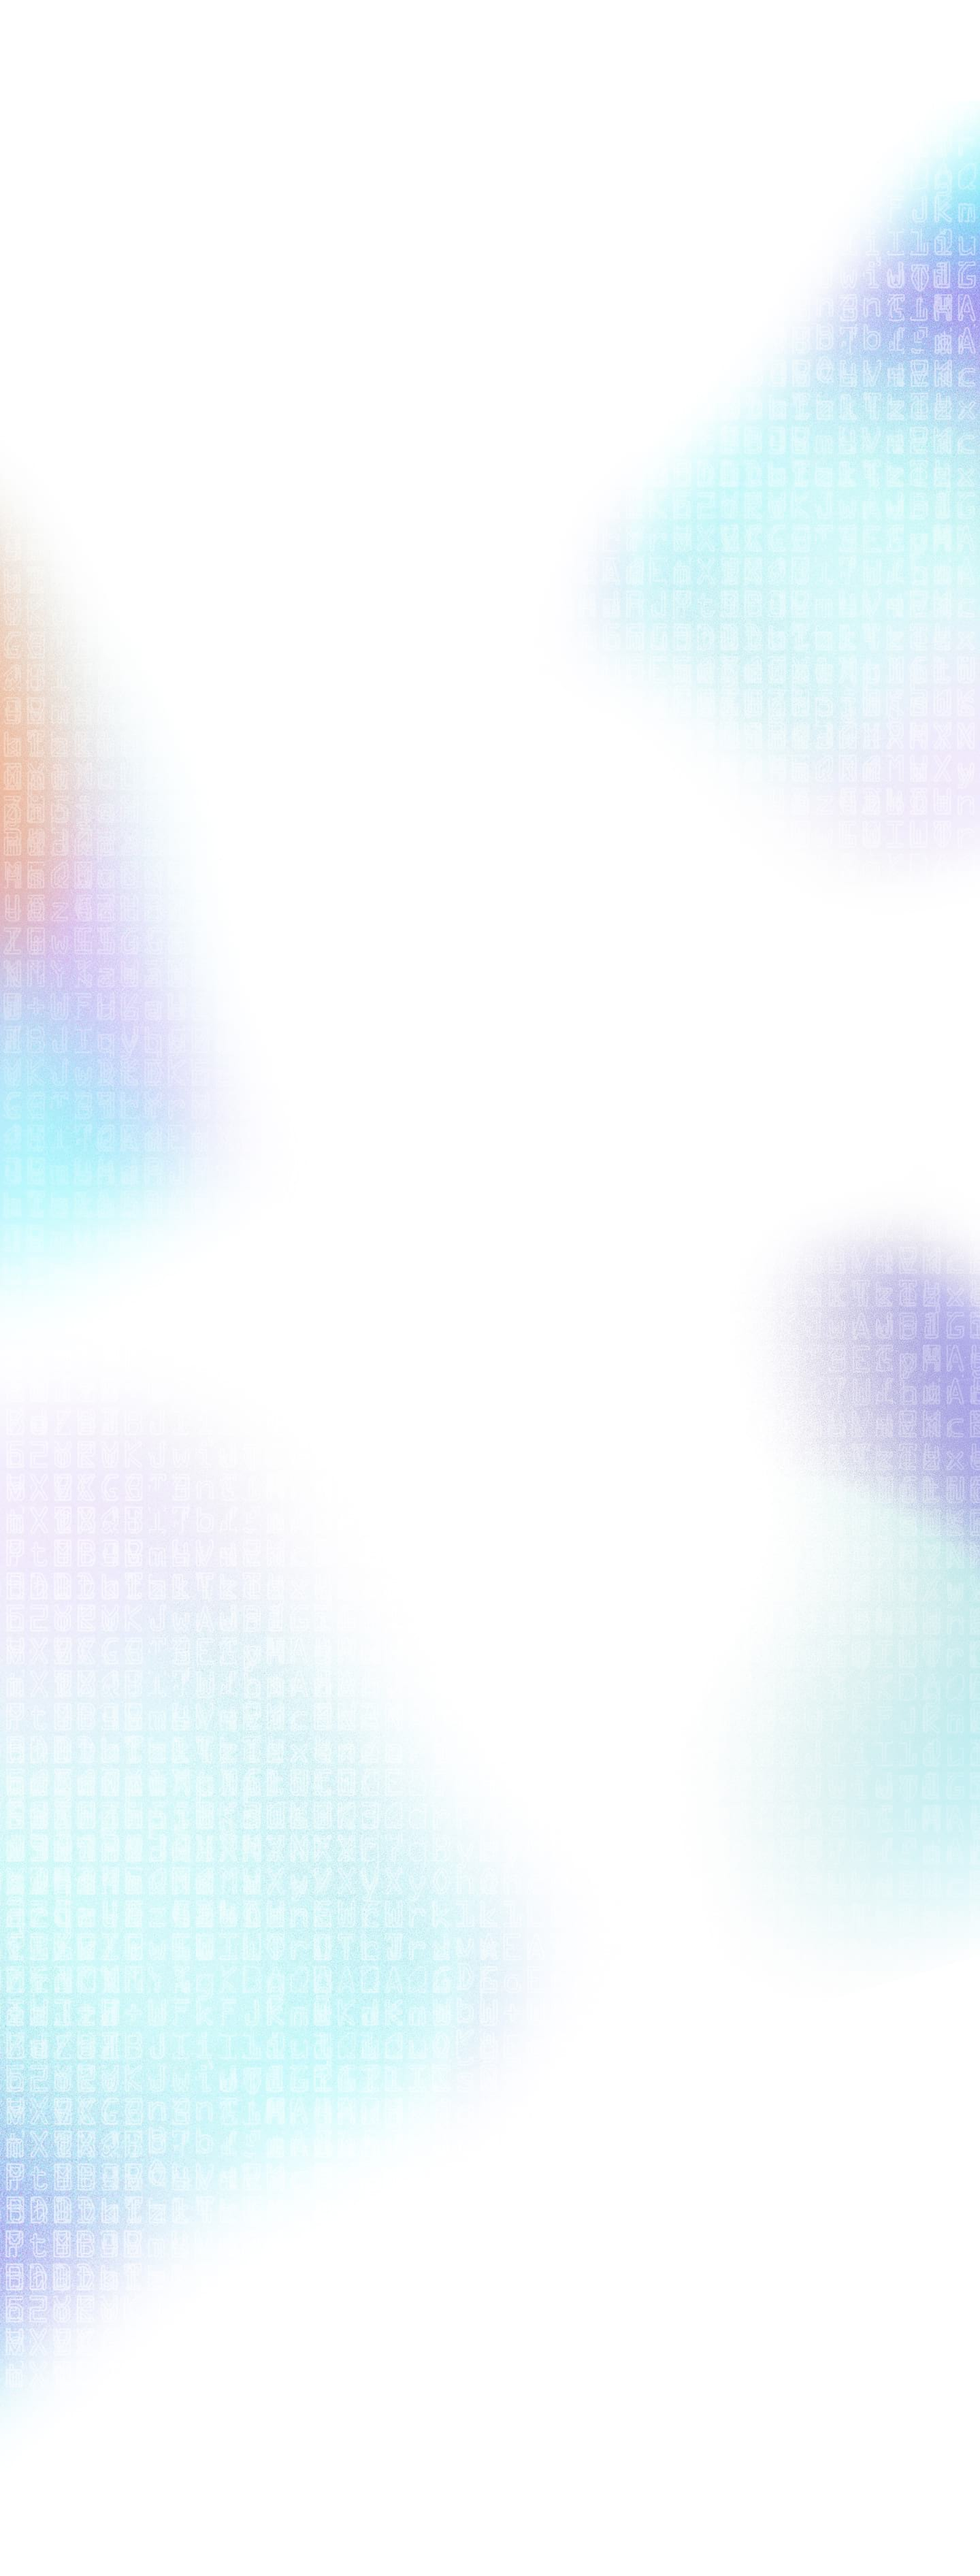
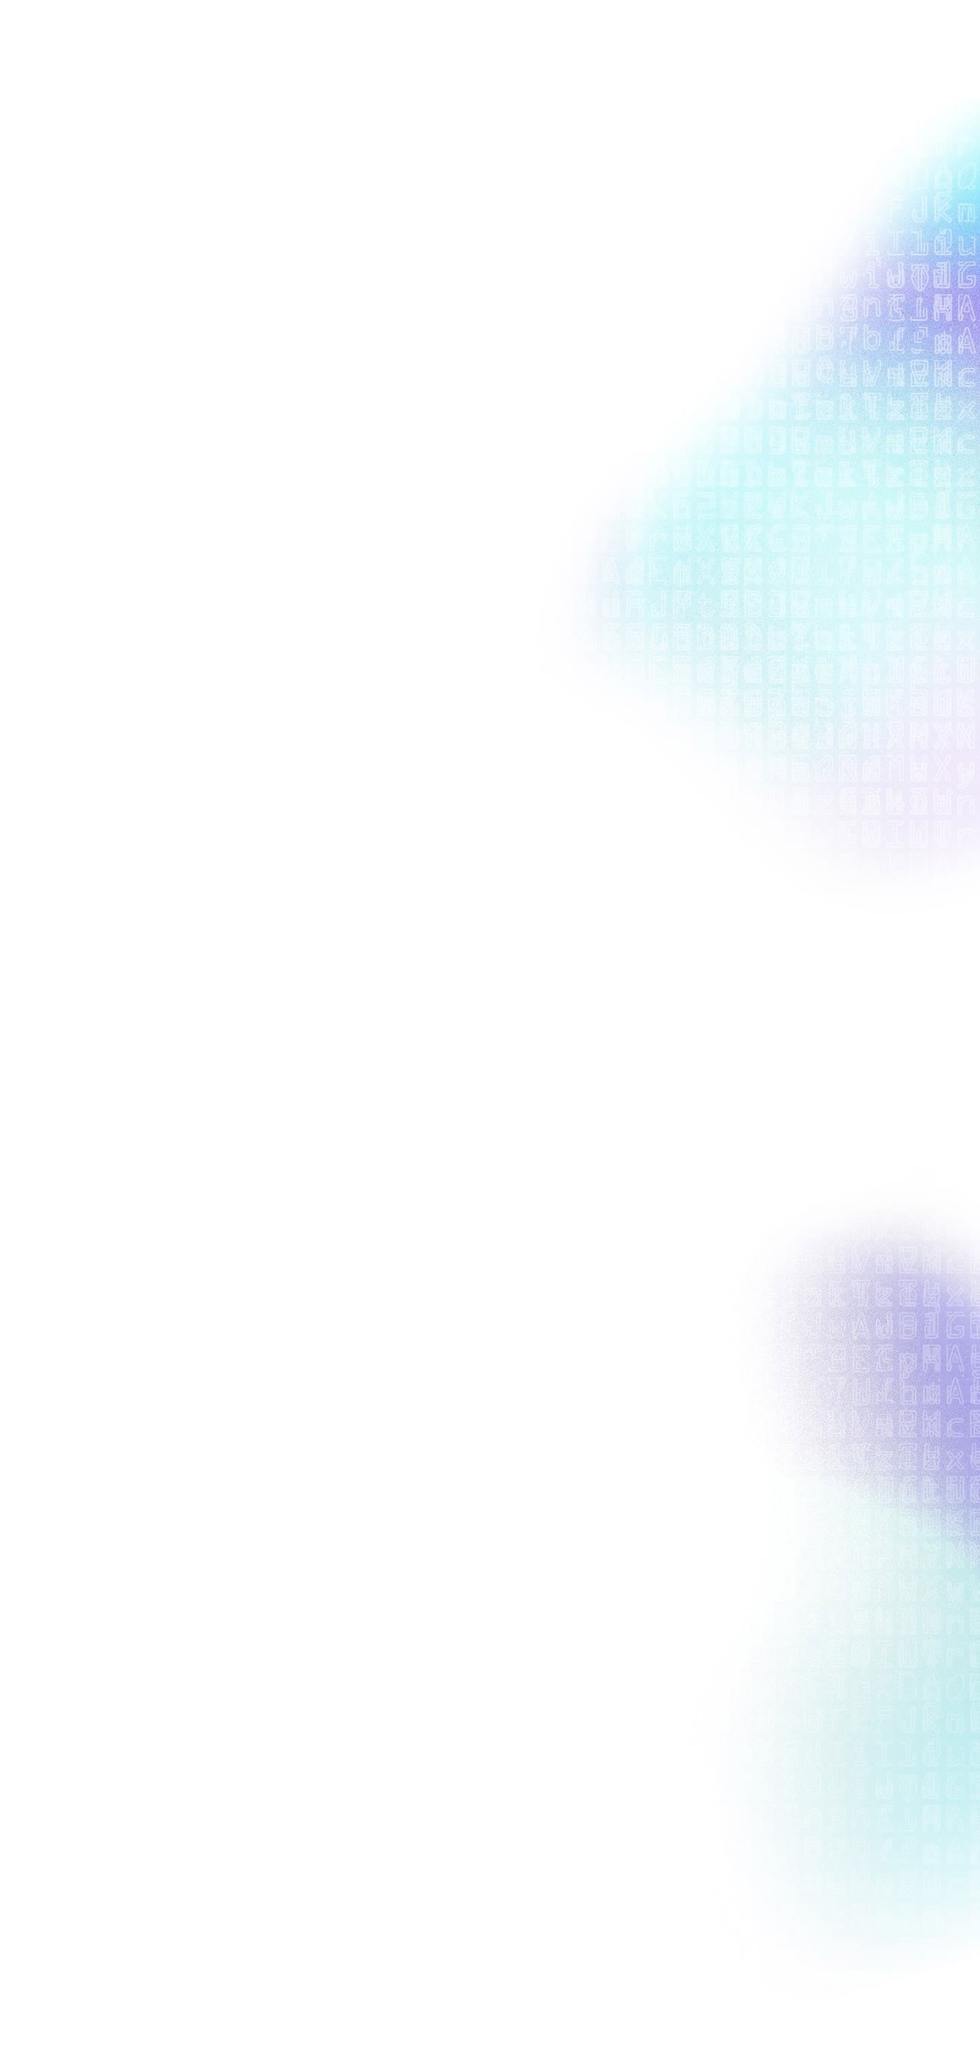
Docs: Style updates (#23)

diff --git a/src/scss/base/_reset_docusaurus.scss b/src/scss/base/_reset_docusaurus.scss
@@ -10,7 +10,19 @@ We must use `!important` at times to override some default styles.
 
 #__docusaurus {
   background-image: url("@site/static/img/mina_background.jpg");
-  background-size: cover;
+  background-size: 100%;
+}
+
+.container {
+  padding-bottom: 4rem !important;
+
+  @media screen and (min-width: variables.$screen-md) {
+    padding-bottom: 5rem !important;
+  }
+}
+
+.theme-doc-sidebar-container {
+  border-right: none !important;
 }
 
 .theme-doc-markdown {
@@ -31,6 +43,7 @@ We must use `!important` at times to override some default styles.
 }
 
 .menu {
+  padding-left: var(--ifm-menu-link-padding-horizontal);
   @media screen and (min-width: variables.$screen-md) {
     margin-left: 1rem;
     margin-bottom: 1rem;
@@ -47,7 +60,7 @@ We must use `!important` at times to override some default styles.
 
   & > .theme-doc-sidebar-item-category-level-1,
   .theme-doc-sidebar-item-link-level-1 {
-    margin-left: 1.5rem;
+    margin-left: 2rem;
     border-left: 1px solid rgba(45, 45, 45, 0.25);
     & > div {
       border-radius: 0;
@@ -70,12 +83,17 @@ We must use `!important` at times to override some default styles.
     content: counter(orderedList, decimal-leading-zero) !important;
 
     position: absolute;
-    transform: translateX(-80%) translateY(90%);
+    transform: translateX(-80%) translateY(91%);
   }
 }
 
 .menu__link {
   line-height: 2rem;
+
+  &:hover,
+  & > a {
+    transition: none !important;
+  }
 }
 
 .menu__list-item:not(:first-child) {
@@ -84,6 +102,10 @@ We must use `!important` at times to override some default styles.
 
 .navbar {
   height: 100%;
+}
+
+.navbar__items {
+  position: relative;
 }
 
 .navbar__logo {
@@ -100,13 +122,19 @@ We must use `!important` at times to override some default styles.
   margin-right: 0rem;
 }
 
+.navbar__item {
+  & > .navbar-docs-copy {
+    padding: 0;
+  }
+}
+
 .navbar__items--right {
   & > div,
   & > a {
     @media screen and (min-width: variables.$screen-lg) {
       display: flex;
       align-items: center;
-      margin-left: 2.5rem;
+      margin-left: 1rem;
     }
   }
 }
@@ -115,15 +143,43 @@ We must use `!important` at times to override some default styles.
   border-radius: 2px !important;
   border: 1px solid variables.$mina-gray !important;
   border-width: 0.01em;
-  height: 2.75rem !important;
+  height: 3.3rem !important;
+
+  position: static;
 
   & > * > .DocSearch-Search-Icon,
   .DocSearch-Button-Container {
     color: variables.$mina-gray !important;
+    font-weight: normal !important;
+  }
+
+  &:hover {
+    svg {
+      color: variables.$mina-gray-dark !important;
+    }
+  }
+
+  @media screen and (min-width: variables.$screen-sm) {
+    width: 15rem;
   }
 
   @media screen and (min-width: variables.$screen-md) {
-    width: 15rem;
+    position: absolute !important;
+    top: 0%;
+    left: 28.5%;
+    width: 30rem;
+  }
+
+  @media screen and (min-width: variables.$screen-lg) {
+    width: 40rem;
+  }
+
+  @media screen and (min-width: variables.$screen-xl) {
+    width: 40rem;
+  }
+
+  @media screen and (min-width: variables.$screen-xl2) {
+    width: 55rem;
   }
 
   --docsearch-searchbox-background: variables.$mina-white;
@@ -135,7 +191,7 @@ We must use `!important` at times to override some default styles.
 }
 
 .breadcrumbs {
-  @media screen and (min-width: variables.$screen-lg) {
+  @media screen and (min-width: variables.$screen-md) {
     display: none;
   }
 }
@@ -153,11 +209,24 @@ We must use `!important` at times to override some default styles.
 }
 
 .pagination-nav__link {
-  border-color: variables.$mina-orange;
+  border-color: variables.$mina-gray;
+  &:hover {
+    border-color: variables.$mina-orange;
+  }
   & > .pagination-nav__sublabel {
     color: #a6a6a6;
   }
   & > .pagination-nav__label {
     color: variables.$mina-orange;
   }
+}
+
+.navbar-sidebar__brand {
+  & > * > .navbar__logo {
+    margin-left: -4px;
+  }
+}
+
+.navbar-sidebar__back {
+  margin-left: -1rem;
 }

diff --git a/docusaurus.config.js b/docusaurus.config.js
@@ -15,7 +15,7 @@ const katex = require("rehype-katex");
     baseUrl: "/",
     onBrokenLinks: "throw",
     onBrokenMarkdownLinks: "warn",
-    favicon: "img/favicon.png",
+    favicon: "img/favicon.ico",
     organizationName: "o1-labs",
     projectName: "docs2",
 
@@ -63,28 +63,36 @@ const katex = require("rehype-katex");
           logo: {
             alt: "Mina Logo",
             src: "svg/common/mina_logo.svg",
-            href: "https://minaprotocol.com",
+            href: "/",
           },
           items: [
             {
               type: "html",
               position: "left",
-              value: `<a class="navbar-docs-copy" href="/"><h3 style="margin:0">Docs</h3></a>`,
+              className: "navbar-docs-copy",
+              value: `<a href="/"><h3 style="margin:0">Docs</h3></a>`,
             },
+
             {
-              type: "localeDropdown",
-              position: "right",
+              type: "search",
+              position: "left",
             },
             {
               type: "html",
               position: "right",
-              value: `<a href="https://github.com/MinaProtocol/mina"><img style="margin:0;padding-top:5px;width:28px;height:auto" src="/svg/socials/github_24x24.svg"/></a>`,
+              value: `<a href="https://github.com/MinaProtocol/mina"><img class="navbar-github-icon" src="/svg/socials/github_24x24.svg"/></a>`,
             },
           ],
         },
 
+        docs: {
+          sidebar: {
+            autoCollapseCategories: true,
+          },
+        },
+
         prism: {
-          theme: lightCodeTheme,
+          theme: darkCodeTheme,
           darkTheme: darkCodeTheme,
         },
 
@@ -98,6 +106,7 @@ const katex = require("rehype-katex");
           appId: process.env.ALGOLIA_APP_ID,
           apiKey: process.env.ALGOLIA_SEARCH_API_KEY,
           indexName: "mina",
+          contextualSearch: false,
         },
       }),
   }

diff --git a/src/scss/custom.scss b/src/scss/custom.scss
@@ -13,6 +13,8 @@
   --ifm-color-primary-lightest: #ffac99;
   --ifm-code-font-size: 95%;
 
+  --ifm-menu-color-background-active: none;
+
   --ifm-menu-color: variables.$mina-black;
   --ifm-breadcrumb-item-background-active: none;
 
@@ -23,7 +25,8 @@
 
   --ifm-toc-link-color: variables.$mina-black;
 
-  --docsearch-primary-color: #d9d9d9 !important;
+  --docsearch-primary-color: none !important;
+  --docusaurus-announcement-bar-height: 40px;
 
   --ifm-navbar-padding-vertical: 1rem;
   --ifm-navbar-padding-horizontal: 1.5rem;
@@ -43,18 +46,34 @@
 }
 
 .navbar-docs-copy {
-  text-decoration: none !important;
-  opacity: 0.5;
+  & > a {
+    display: none;
+    @media screen and (min-width: variables.$screen-md) {
+      display: block;
+      text-decoration: none !important;
 
-  & > h3 {
-    font-size: 2.75rem !important;
-    padding-bottom: 0.45rem;
-  }
+      & > h3 {
+        font-size: 39px !important;
+        padding-bottom: 0.25rem;
+        color: rgba(28, 30, 33, 0.92);
+      }
 
-  & > * {
-    color: variables.$mina-black !important;
+      & > * {
+        color: variables.$mina-black !important;
+      }
+      & > a:hover {
+        text-decoration: none !important;
+      }
+    }
   }
-  & > a:hover {
-    text-decoration: none !important;
+}
+
+.navbar-github-icon {
+  margin: 0;
+  width: 36px;
+  height: auto;
+
+  &:hover {
+    color: variables.$mina-orange;
   }
 }

diff --git a/src/scss/utilities/_variables.scss b/src/scss/utilities/_variables.scss
@@ -1,8 +1,12 @@
-$screen-md: 996px;
+$screen-sm: 512px;
+$screen-md: 998px;
 $screen-lg: 1280px;
+$screen-xl: 1440px;
+$screen-xl2: 1920px;
 
 $mina-orange: #ff603b;
 $mina-teal: #9fe4c9;
 $mina-gray: #d9d9d9;
+$mina-gray-dark: #b3b3b3;
 $mina-black: #2d2d2d;
 $mina-white: #ffffff;

diff --git a/src/theme/BackToTopButton/BackToTopButton.module.scss b/src/theme/BackToTopButton/BackToTopButton.module.scss
@@ -8,8 +8,8 @@
   z-index: calc(var(--ifm-z-index-fixed) - 1);
 
   @media screen and (min-width: variables.$screen-md) {
-    right: 1.3rem;
-    bottom: 1.3rem;
+    right: 1.75rem;
+    bottom: 1.75rem;
   }
 }
 

diff --git a/src/scss/utilities/_mixins.scss b/src/scss/utilities/_mixins.scss
@@ -105,7 +105,7 @@
 
 @mixin minaHeader1() {
   @include f_monument;
-  font-style: normal;
+  font-weight: normal;
   font-size: 36px !important;
   line-height: 43px !important;
 

diff --git a/src/theme/Footer/Footer.module.scss b/src/theme/Footer/Footer.module.scss
@@ -313,4 +313,8 @@
   line-height: 1.5rem;
   color: variables.$mina-white;
   opacity: 0.6;
+
+  @media screen and (min-width: variables.$screen-md) {
+    width: 25rem;
+  }
 }

diff --git a/src/scss/base/_reset.scss b/src/scss/base/_reset.scss
@@ -29,6 +29,10 @@ button {
   color: inherit;
 }
 
+h1 {
+  @include mixins.minaHeader1;
+}
+
 h2 {
   @include mixins.minaHeader2;
 }
